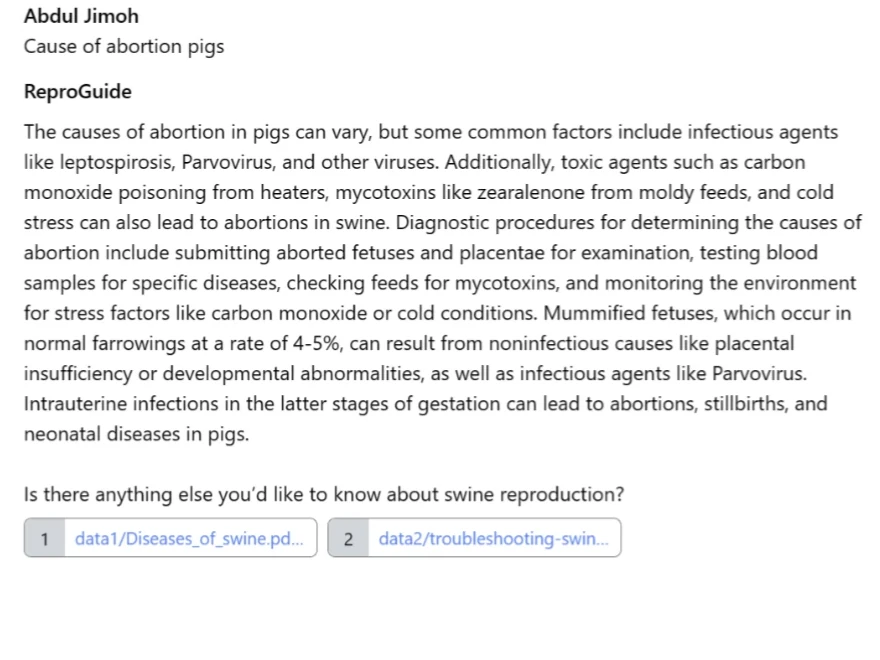
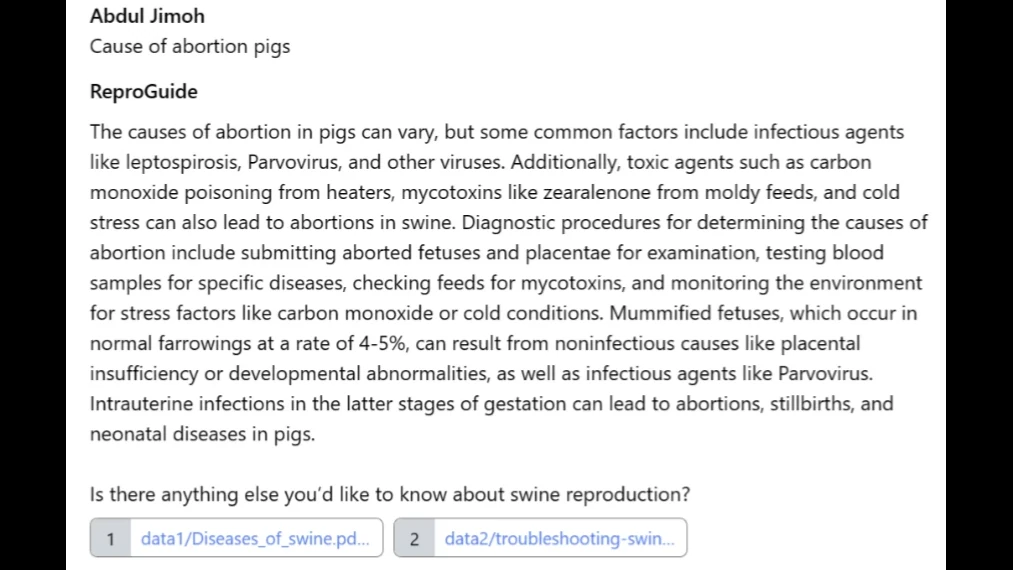
Fit ReproGuide screenshot to 16:9 with black fill
The home card uses a 16:9 slot for real screenshots (diagrams and
placeholders stay 4:3).

Claude-Session: https://claude.ai/code/session_01QLj8K1qSHrwRj1oW5PFnnm

diff --git a/app/components/problem-card.tsx b/app/components/problem-card.tsx
@@ -2,6 +2,7 @@ import { ExternalLink } from "lucide-react";
 import { Link } from "react-router";
 import { Screenshot } from "~/components/screenshot";
 import type { ProjectMeta } from "~/lib/content.server";
+import { cn } from "~/lib/utils";
 
 export function ProblemCard({ project }: { project: ProjectMeta }) {
   return (
@@ -36,7 +37,13 @@ export function ProblemCard({ project }: { project: ProjectMeta }) {
             )}
           </div>
         </div>
-        <Screenshot project={project} className="order-first aspect-[4/3] sm:order-last sm:col-span-2" />
+        <Screenshot
+          project={project}
+          className={cn(
+            "order-first sm:order-last sm:col-span-2",
+            project.image ? "aspect-video" : "aspect-[4/3]",
+          )}
+        />
       </div>
     </li>
   );
